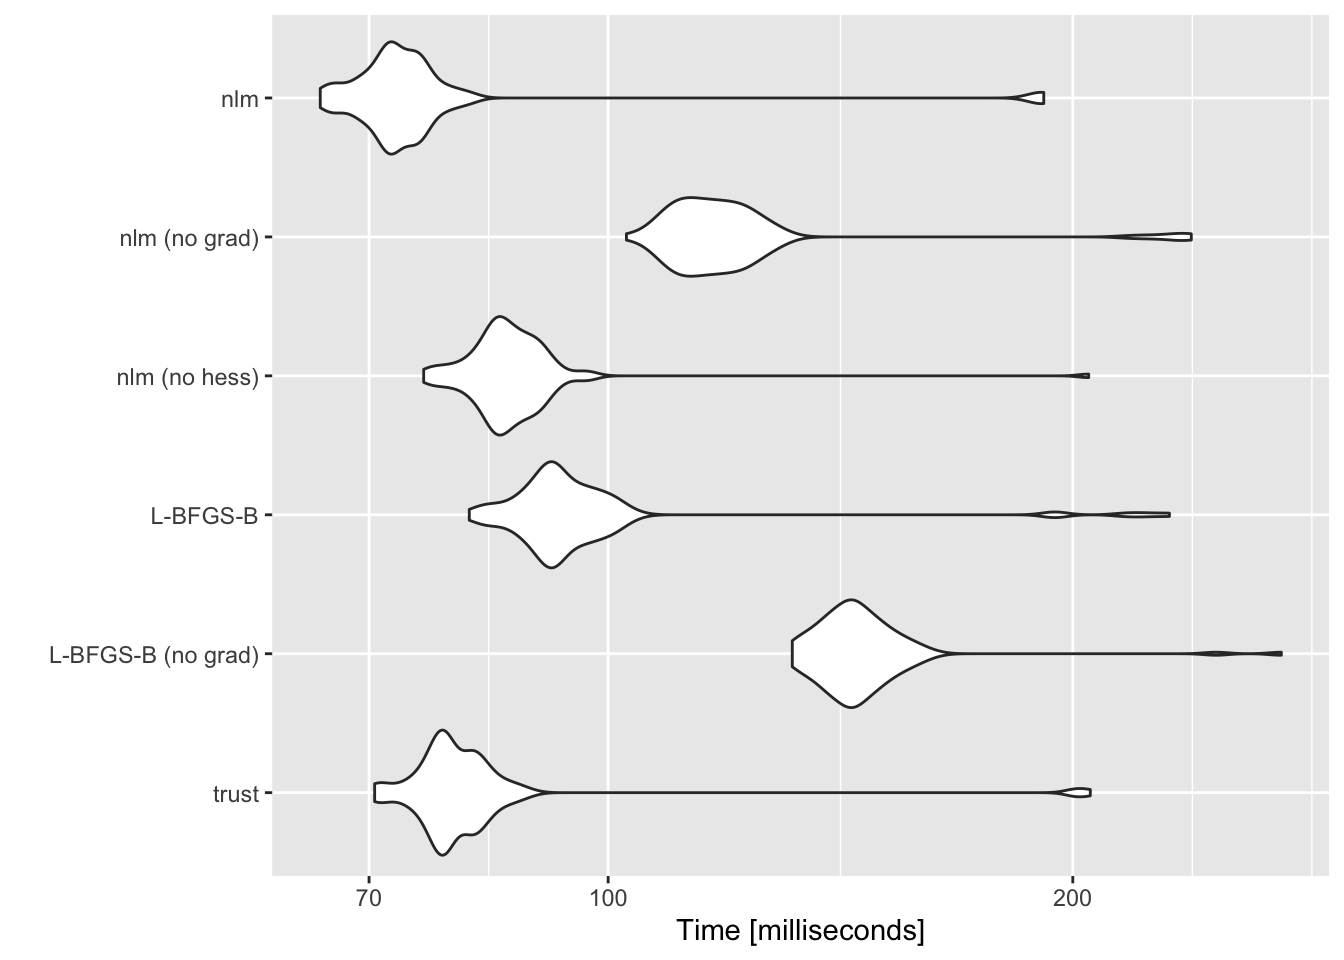
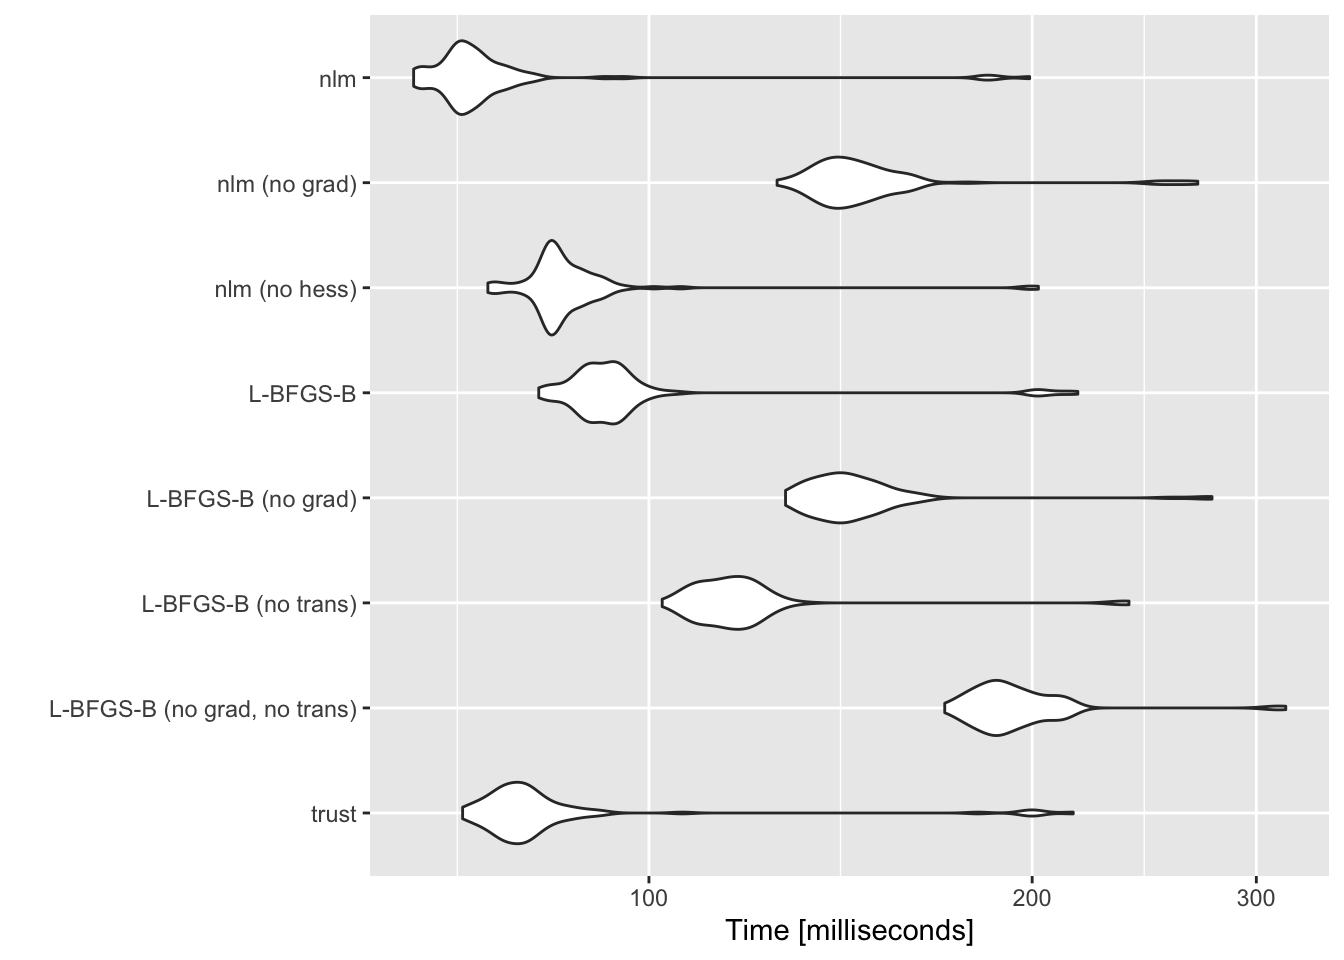
Build site.

diff --git a/docs/optmethods_pl.html b/docs/optmethods_pl.html
@@ -364,7 +364,7 @@ div.section {
 <div class="tab-content">
 <div id="summary" class="tab-pane fade in active">
 <p>
-<strong>Last updated:</strong> 2021-01-12
+<strong>Last updated:</strong> 2021-01-22
 </p>
 <p>
 <strong>Checks:</strong> <span class="glyphicon glyphicon-ok text-success" aria-hidden="true"></span> 6 <span class="glyphicon glyphicon-exclamation-sign text-danger" aria-hidden="true"></span> 0
@@ -443,10 +443,10 @@ This reproducible <a href="http://rmarkdown.rstudio.com">R Markdown</a> analysis
 <div class="panel panel-default">
 <div class="panel-heading">
 <p class="panel-title">
-<a data-toggle="collapse" data-parent="#workflowr-checks" href="#strongRepositoryversionstrongahrefhttpsgithubcomwillwerscheidebnmpapertree39fece5808142aebc190ee9b2a70da421600a7e9targetblank39fece5a"> <span class="glyphicon glyphicon-ok text-success" aria-hidden="true"></span> <strong>Repository version:</strong> <a href="https://github.com/willwerscheid/ebnm-paper/tree/39fece5808142aebc190ee9b2a70da421600a7e9" target="_blank">39fece5</a> </a>
+<a data-toggle="collapse" data-parent="#workflowr-checks" href="#strongRepositoryversionstrongahrefhttpsgithubcomwillwerscheidebnmpapertree1cef52381e00c78b099fd3c9bfd32f8429e23a9btargetblank1cef523a"> <span class="glyphicon glyphicon-ok text-success" aria-hidden="true"></span> <strong>Repository version:</strong> <a href="https://github.com/willwerscheid/ebnm-paper/tree/1cef52381e00c78b099fd3c9bfd32f8429e23a9b" target="_blank">1cef523</a> </a>
 </p>
 </div>
[2 lines of base64/hex data omitted]
 <div class="panel-body">
 <p>
 Great! You are using Git for version control. Tracking code development and connecting the code version to the results is critical for reproducibility. The version displayed above was the version of the Git repository at the time these results were generated. <br><br> Note that you need to be careful to ensure that all relevant files for the analysis have been committed to Git prior to generating the results (you can use <code>wflow_publish</code> or <code>wflow_git_commit</code>). workflowr only checks the R Markdown file, but you know if there are other scripts or data files that it depends on. Below is the status of the Git repository when the results were generated:
@@ -460,8 +460,7 @@ Untracked files:
     Untracked:  sims.R
 
 Unstaged changes:
-    Modified:   analysis/_site.yml
-    Modified:   analysis/index.Rmd
+    Modified:   analysis/ebayesthresh.Rmd
 
 </code></pre>
 <p>
@@ -500,6 +499,40 @@ Message
 </tr>
 </thead>
 <tbody>
+<tr>
+<td>
+Rmd
+</td>
+<td>
+<a href="https://github.com/willwerscheid/ebnm-paper/blob/1cef52381e00c78b099fd3c9bfd32f8429e23a9b/analysis/optmethods_pl.Rmd" target="_blank">1cef523</a>
+</td>
+<td>
+Jason Willwerscheid
+</td>
+<td>
+2021-01-22
+</td>
+<td>
+wflow_publish(“analysis/optmethods_pl.Rmd”)
+</td>
+</tr>
+<tr>
+<td>
+html
+</td>
+<td>
+<a href="https://rawcdn.githack.com/willwerscheid/ebnm-paper/1f16a17ace3258221d346128f602b36e2e56a4be/docs/optmethods_pl.html" target="_blank">1f16a17</a>
+</td>
+<td>
+Jason Willwerscheid
+</td>
+<td>
+2021-01-12
+</td>
+<td>
+Build site.
+</td>
+</tr>
 <tr>
 <td>
 Rmd
@@ -574,6 +607,10 @@ test_n &lt;- function(n, mb_times = 100L, seed = 666) {
   test_res &lt;- microbenchmark(
     tres &lt;- ebnm_point_laplace(x, s, optmethod = &quot;trust&quot;,
                                control = list(fterm = sqrt(.Machine$double.eps))),
+    ebnm_point_laplace(x, s, optmethod = &quot;notrans_nograd_lbfgsb&quot;,
+                       control = list(pgtol = sqrt(.Machine$double.eps))),
+    ures &lt;- ebnm_point_laplace(x, s, optmethod = &quot;notrans_lbfgsb&quot;,
+                       control = list(pgtol = sqrt(.Machine$double.eps))),
     ebnm_point_laplace(x, s, optmethod = &quot;nograd_lbfgsb&quot;,
                        control = list(pgtol = sqrt(.Machine$double.eps))),
     ores &lt;- ebnm_point_laplace(x, s, optmethod = &quot;lbfgsb&quot;,
@@ -587,11 +624,14 @@ test_n &lt;- function(n, mb_times = 100L, seed = 666) {
     times = mb_times
   )
 
-  levels(test_res$expr) &lt;- c(&quot;trust&quot;, &quot;L-BFGS-B (no grad)&quot;, &quot;L-BFGS-B&quot;, 
-                          &quot;nlm (no hess)&quot;, &quot;nlm (no grad)&quot;, &quot;nlm&quot;)
+  levels(test_res$expr) &lt;- c(&quot;trust&quot;, 
+                             &quot;L-BFGS-B (no grad, no trans)&quot;, &quot;L-BFGS-B (no trans)&quot;,
+                             &quot;L-BFGS-B (no grad)&quot;, &quot;L-BFGS-B&quot;,
+                             &quot;nlm (no hess)&quot;, &quot;nlm (no grad)&quot;, &quot;nlm&quot;)
   
-  llik_res &lt;- c(tres$log_likelihood, ores$log_likelihood, nres$log_likelihood)
-  names(llik_res) &lt;- c(&quot;trust&quot;, &quot;L-BFGS-B&quot;, &quot;nlm&quot;)
+  llik_res &lt;- c(nres$log_likelihood, ores$log_likelihood, 
+                ures$log_likelihood, tres$log_likelihood)
+  names(llik_res) &lt;- c(&quot;nlm&quot;, &quot;L-BFGS-B&quot;, &quot;L-BFGS-B (no trans)&quot;, &quot;trust&quot;)
   
   return(list(mb_res = test_res, llik_res = llik_res))
 }</code></pre>
@@ -600,8 +640,8 @@ test_n &lt;- function(n, mb_times = 100L, seed = 666) {
 <p>Difference from maximum log likelihood among all methods:</p>
 <pre class="r"><code>res1000 &lt;- test_n(1000)
 res1000$llik_res - max(res1000$llik_res)</code></pre>
-<pre><code>#&gt;         trust      L-BFGS-B           nlm 
-#&gt;  0.000000e+00 -2.728484e-12 -4.547474e-13</code></pre>
+<pre><code>#&gt;                 nlm            L-BFGS-B L-BFGS-B (no trans)               trust 
+#&gt;       -4.547474e-13       -2.728484e-12       -5.968718e-08        0.000000e+00</code></pre>
 <p>Timing results:</p>
 <pre class="r"><code>autoplot(res1000$mb_res)</code></pre>
 <pre><code>#&gt; Coordinate system already present. Adding new coordinate system, which will replace the existing one.</code></pre>
@@ -630,6 +670,17 @@ Date
 <tbody>
 <tr>
 <td>
+<a href="https://github.com/willwerscheid/ebnm-paper/blob/1f16a17ace3258221d346128f602b36e2e56a4be/docs/figure/optmethods_pl.Rmd/n1000t-1.png" target="_blank">1f16a17</a>
+</td>
+<td>
+Jason Willwerscheid
+</td>
+<td>
+2021-01-12
+</td>
+</tr>
+<tr>
+<td>
 <a href="https://github.com/willwerscheid/ebnm-paper/blob/25b5d6d0e28be0adbe4b9961d4dfae0d8a49b9bd/docs/figure/optmethods_pl.Rmd/n1000t-1.png" target="_blank">25b5d6d</a>
 </td>
 <td>
@@ -649,8 +700,8 @@ Jason Willwerscheid
 <p>Difference from maximum log likelihood among all methods:</p>
 <pre class="r"><code>res10000 &lt;- test_n(10000)
 res10000$llik_res - max(res10000$llik_res)</code></pre>
-<pre><code>#&gt;         trust      L-BFGS-B           nlm 
-#&gt;  0.000000e+00 -6.002665e-10  0.000000e+00</code></pre>
+<pre><code>#&gt;                 nlm            L-BFGS-B L-BFGS-B (no trans)               trust 
+#&gt;        0.000000e+00       -6.002665e-10        0.000000e+00        0.000000e+00</code></pre>
 <p>Timing results:</p>
 <pre class="r"><code>autoplot(res10000$mb_res)</code></pre>
 <pre><code>#&gt; Coordinate system already present. Adding new coordinate system, which will replace the existing one.</code></pre>
@@ -679,6 +730,17 @@ Date
 <tbody>
 <tr>
 <td>
+<a href="https://github.com/willwerscheid/ebnm-paper/blob/1f16a17ace3258221d346128f602b36e2e56a4be/docs/figure/optmethods_pl.Rmd/n10000t-1.png" target="_blank">1f16a17</a>
+</td>
+<td>
+Jason Willwerscheid
+</td>
+<td>
+2021-01-12
+</td>
+</tr>
+<tr>
+<td>
 <a href="https://github.com/willwerscheid/ebnm-paper/blob/25b5d6d0e28be0adbe4b9961d4dfae0d8a49b9bd/docs/figure/optmethods_pl.Rmd/n10000t-1.png" target="_blank">25b5d6d</a>
 </td>
 <td>
@@ -698,8 +760,8 @@ Jason Willwerscheid
 <p>Difference from maximum log likelihood among all methods:</p>
 <pre class="r"><code>res100000 &lt;- test_n(100000, mb_times = 50L)
 res100000$llik_res - max(res100000$llik_res)</code></pre>
-<pre><code>#&gt;         trust      L-BFGS-B           nlm 
-#&gt; -2.910383e-11 -5.160109e-08  0.000000e+00</code></pre>
+<pre><code>#&gt;                 nlm            L-BFGS-B L-BFGS-B (no trans)               trust 
+#&gt;        0.000000e+00       -5.160109e-08       -1.183993e-05        0.000000e+00</code></pre>
 <p>Timing results:</p>
 <pre class="r"><code>autoplot(res100000$mb_res)</code></pre>
 <pre><code>#&gt; Coordinate system already present. Adding new coordinate system, which will replace the existing one.</code></pre>
@@ -726,6 +788,17 @@ Date
 </tr>
 </thead>
 <tbody>
+<tr>
+<td>
+<a href="https://github.com/willwerscheid/ebnm-paper/blob/1f16a17ace3258221d346128f602b36e2e56a4be/docs/figure/optmethods_pl.Rmd/n100000t-1.png" target="_blank">1f16a17</a>
+</td>
+<td>
+Jason Willwerscheid
+</td>
+<td>
+2021-01-12
+</td>
+</tr>
 <tr>
 <td>
 <a href="https://github.com/willwerscheid/ebnm-paper/blob/25b5d6d0e28be0adbe4b9961d4dfae0d8a49b9bd/docs/figure/optmethods_pl.Rmd/n100000t-1.png" target="_blank">25b5d6d</a>
@@ -764,19 +837,19 @@ Jason Willwerscheid
 #&gt; [1] stats     graphics  grDevices utils     datasets  methods   base     
 #&gt; 
 #&gt; other attached packages:
-#&gt; [1] ggplot2_3.3.3        ebnm_0.1-29          microbenchmark_1.4-7
+#&gt; [1] ggplot2_3.3.3        ebnm_0.1-33          microbenchmark_1.4-7 workflowr_1.2.0     
 #&gt; 
 #&gt; loaded via a namespace (and not attached):
-#&gt;  [1] Rcpp_1.0.4.6      compiler_3.5.3    pillar_1.4.7      git2r_0.25.2      workflowr_1.2.0  
-#&gt;  [6] tools_3.5.3       digest_0.6.18     evaluate_0.13     tibble_3.0.4      lifecycle_0.2.0  
-#&gt; [11] gtable_0.3.0      lattice_0.20-38   pkgconfig_2.0.2   rlang_0.4.10      Matrix_1.2-15    
-#&gt; [16] yaml_2.2.0        xfun_0.6          invgamma_1.1      withr_2.1.2       dplyr_1.0.2      
-#&gt; [21] stringr_1.4.0     knitr_1.22        generics_0.0.2    vctrs_0.3.6       fs_1.2.7         
-#&gt; [26] tidyselect_1.1.0  trust_0.1-8       rprojroot_1.3-2   grid_3.5.3        glue_1.4.2       
-#&gt; [31] R6_2.4.0          rmarkdown_1.12    mixsqp_0.3-40     irlba_2.3.3       purrr_0.3.4      
-#&gt; [36] ashr_2.2-51       magrittr_1.5      whisker_0.3-2     backports_1.1.3   scales_1.0.0     
-#&gt; [41] htmltools_0.3.6   ellipsis_0.3.0    colorspace_1.4-1  stringi_1.4.3     munsell_0.5.0    
-#&gt; [46] truncnorm_1.0-8   SQUAREM_2017.10-1 crayon_1.3.4</code></pre>
+#&gt;  [1] Rcpp_1.0.4.6      compiler_3.5.3    pillar_1.4.7      git2r_0.25.2      tools_3.5.3      
+#&gt;  [6] digest_0.6.18     evaluate_0.13     tibble_3.0.4      lifecycle_0.2.0   gtable_0.3.0     
+#&gt; [11] lattice_0.20-38   pkgconfig_2.0.2   rlang_0.4.10      Matrix_1.2-15     yaml_2.2.0       
+#&gt; [16] xfun_0.6          invgamma_1.1      withr_2.4.0       dplyr_1.0.2       stringr_1.4.0    
+#&gt; [21] knitr_1.22        generics_0.0.2    vctrs_0.3.6       fs_1.2.7          tidyselect_1.1.0 
+#&gt; [26] trust_0.1-8       rprojroot_1.3-2   grid_3.5.3        glue_1.4.2        R6_2.4.0         
+#&gt; [31] rmarkdown_1.12    mixsqp_0.3-40     irlba_2.3.3       purrr_0.3.4       ashr_2.2-51      
+#&gt; [36] magrittr_1.5      whisker_0.3-2     backports_1.1.3   scales_1.0.0      htmltools_0.3.6  
+#&gt; [41] ellipsis_0.3.0    colorspace_1.4-1  stringi_1.4.3     munsell_0.5.0     truncnorm_1.0-8  
+#&gt; [46] SQUAREM_2017.10-1 crayon_1.3.4</code></pre>
 </div>
 </div>
 
